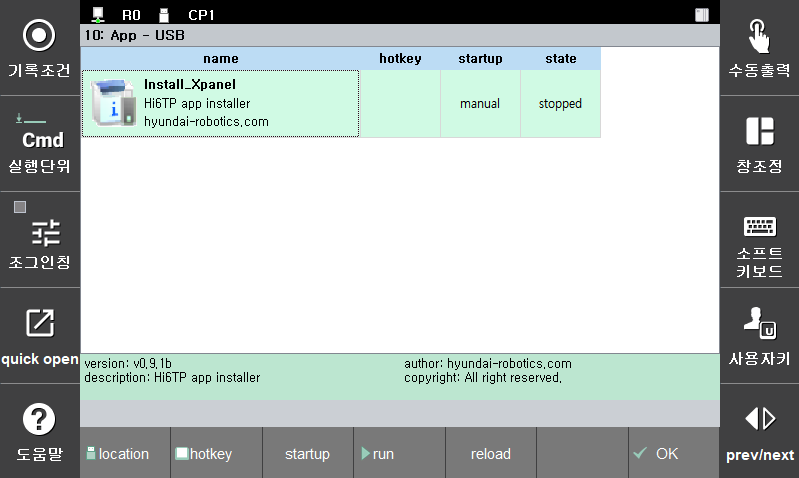
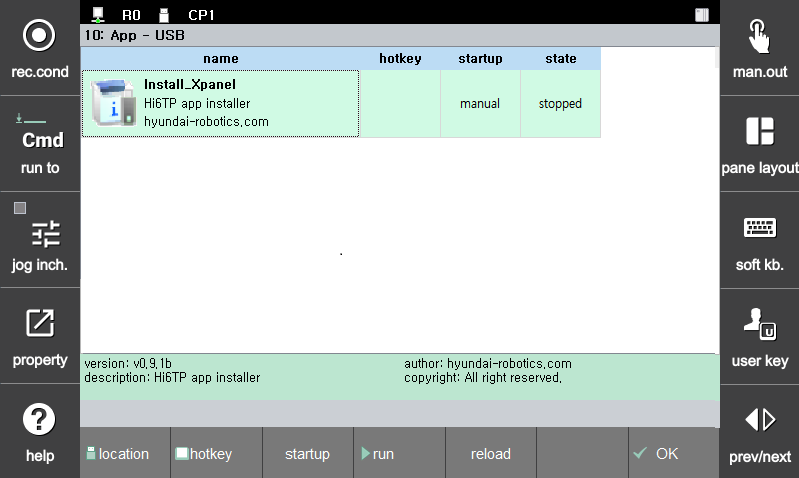
일부 그림 영문화

diff --git a/3-config-run/2-run-switch.md b/3-config-run/2-run-switch.md
@@ -20,7 +20,7 @@ Once again, pressing the `[SHIFT+R..]` key will display the app switch dialog bo
 
 <br/>
 
-To exit an app, use the exit feature of that app, for example, Xpanel has a exit button in the upper right corner of the `Diagnostics` screen.
+To exit an app, use the exit feature of that app, for example, Xpanel has a exit button in the upper right corner of the `Main` or `Diagnostics` screen.
 
 ![](../_assets/3_3_exit.png)
 
